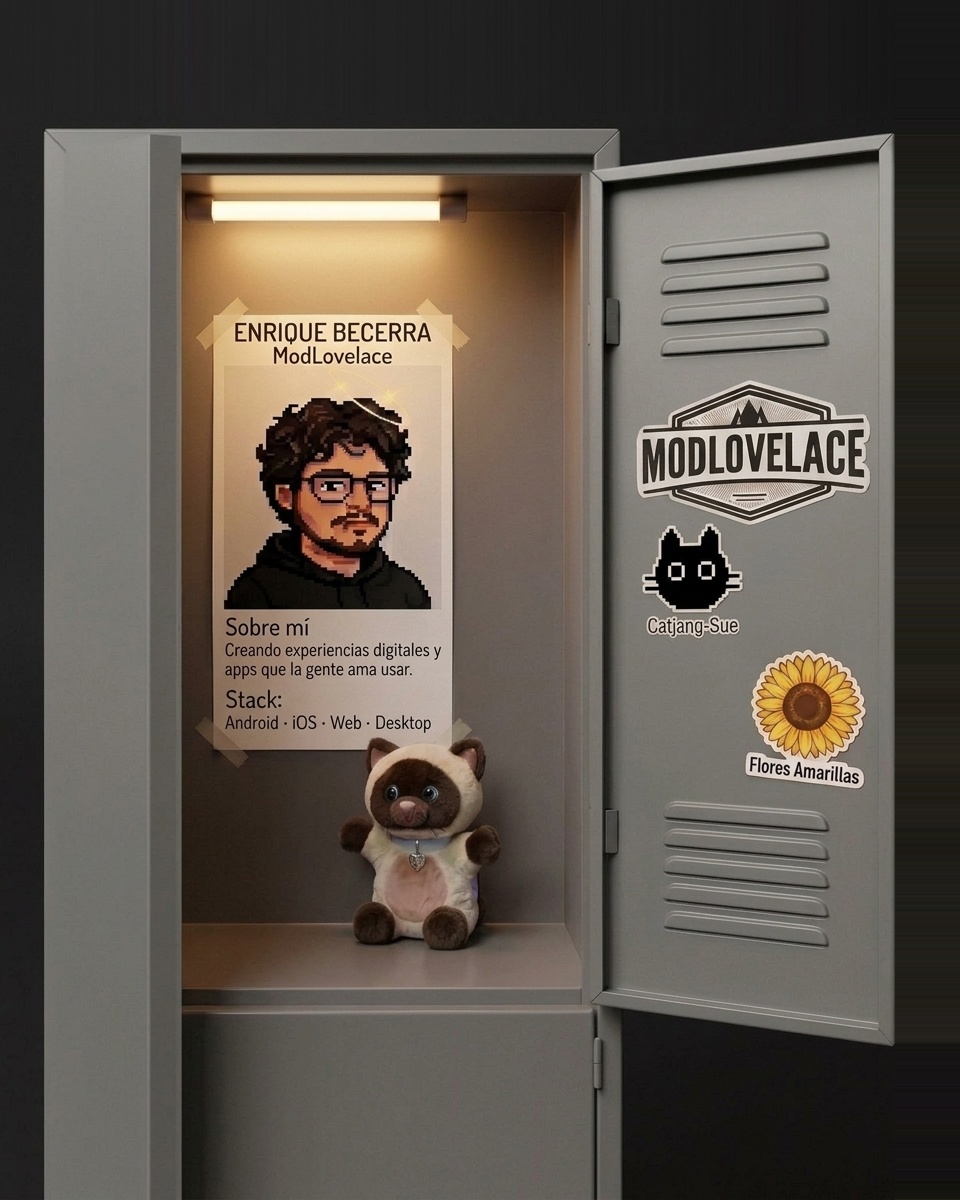
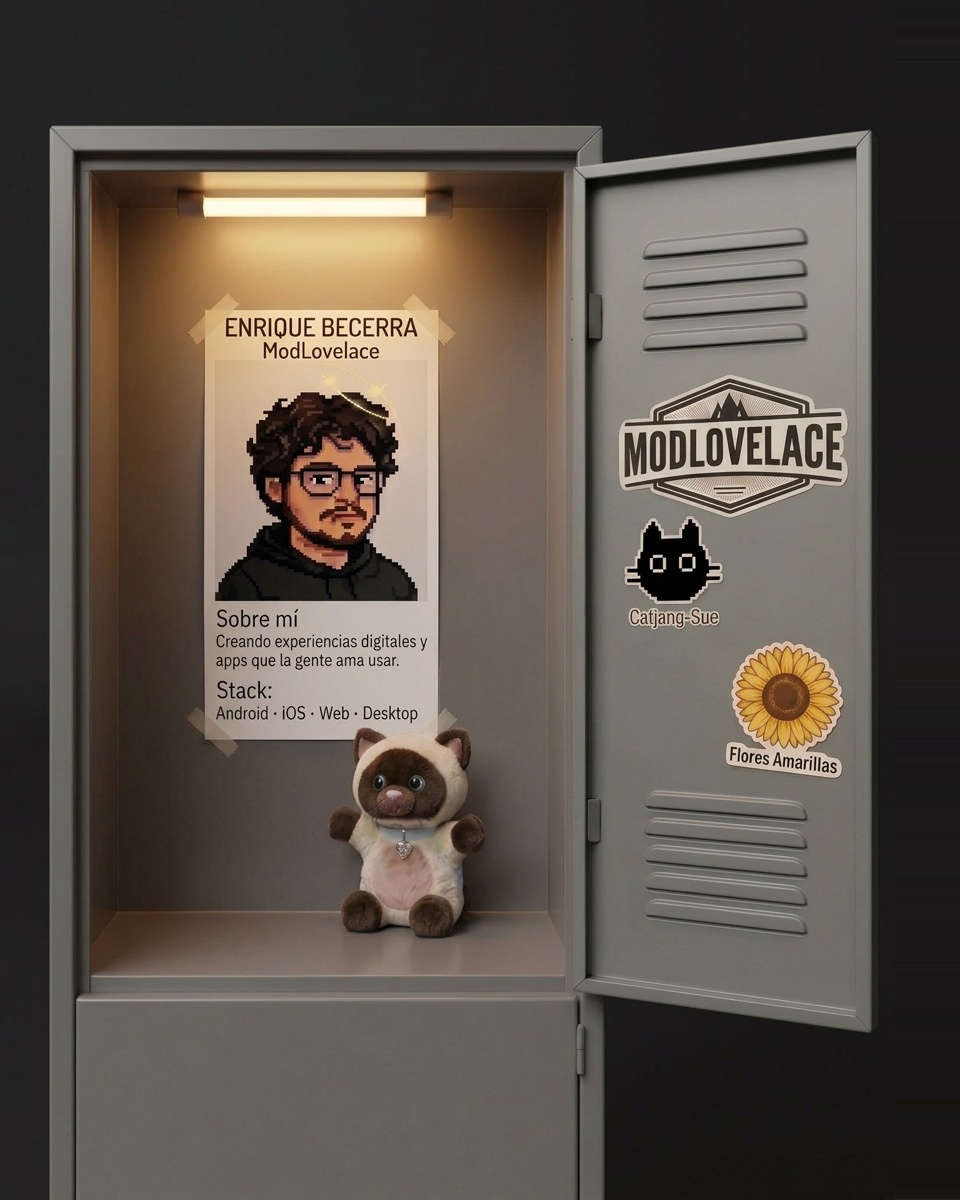
feat(hero): remove left divider pillar and widen locker cabinet with 4:5 ratio

diff --git a/src/components/sections/locker-hero.tsx b/src/components/sections/locker-hero.tsx
@@ -77,7 +77,7 @@ export function LockerHero() {
             
             <div
               onClick={toggleLocker}
-              className="relative w-full max-w-[420px] sm:max-w-[480px] lg:max-w-[540px] xl:max-w-[560px] aspect-[4/5] rounded-2xl overflow-hidden shadow-2xl border border-neutral-300 dark:border-neutral-800 bg-neutral-900 cursor-pointer group select-none transition-all duration-300 hover:shadow-2xl"
+              className="relative w-full max-w-[440px] sm:max-w-[500px] lg:max-w-[560px] xl:max-w-[580px] aspect-[4/5] rounded-2xl overflow-hidden shadow-2xl border border-neutral-300 dark:border-neutral-800 bg-neutral-900 cursor-pointer group select-none transition-all duration-300 hover:shadow-2xl"
               style={{ perspective: "1200px" }}
               title={isOpen ? "Haz clic para cerrar la puerta" : "Haz clic para abrir el casillero"}
             >
@@ -121,7 +121,7 @@ export function LockerHero() {
             </div>
 
             {/* Subtítulo discreto debajo del casillero */}
-            <div className="mt-4 flex items-center justify-between w-full max-w-[420px] sm:max-w-[480px] lg:max-w-[540px] xl:max-w-[560px] px-2 text-xs text-[var(--muted)]">
+            <div className="mt-4 flex items-center justify-between w-full max-w-[440px] sm:max-w-[500px] lg:max-w-[560px] xl:max-w-[580px] px-2 text-xs text-[var(--muted)]">
               <span>{isOpen ? "Puerta abierta · Modfin & stickers de proyectos" : "Casillero cerrado"}</span>
               <button
                 onClick={toggleLocker}
